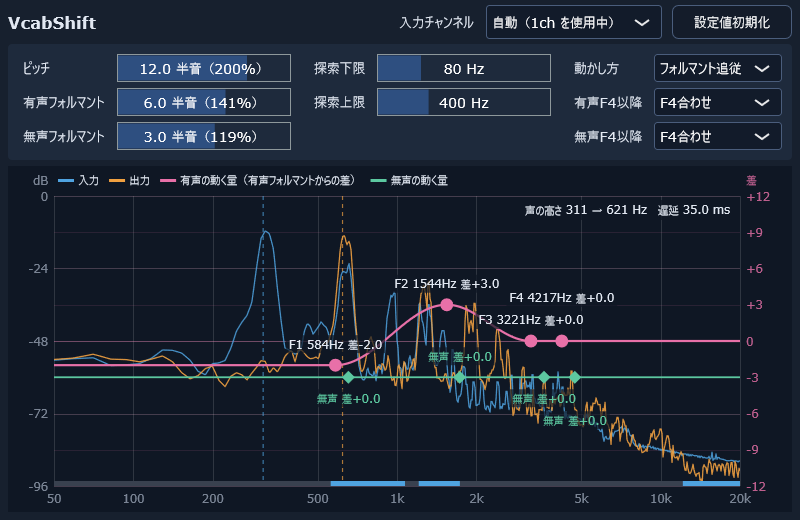
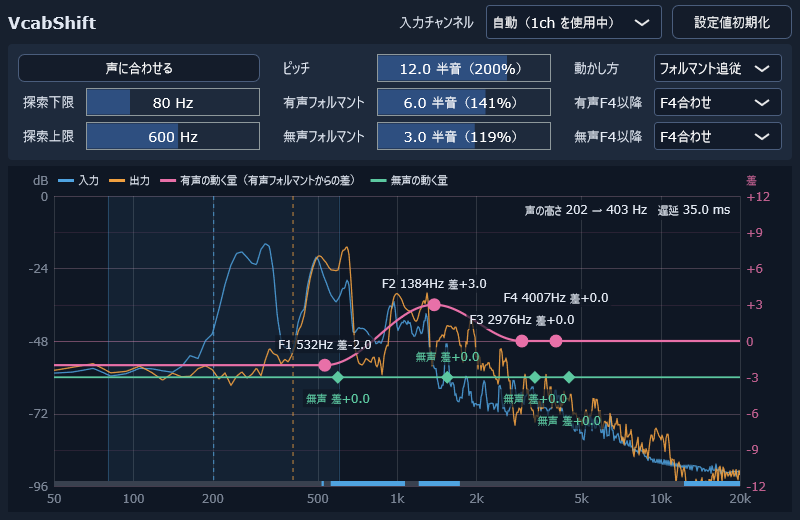
1.1.2

diff --git a/Source/Plugin/PluginEditor.cpp b/Source/Plugin/PluginEditor.cpp
@@ -12,6 +12,16 @@ constexpr int kInputComboWidth = 176; // VcabDenoise の入力チャンネルの
 constexpr int kComboExtra = 46;       // 選択欄の、文字の幅に足す分（左右の余白と、右の矢印）
 constexpr int kLabelInset = 5;        // Label の文字の左の余白（JUCE の標準）
 constexpr int kLabelGap = 12;         // 名前と部品の隙間
+constexpr int kTimerHz = 30;          // 画面の更新（「声に合わせる」は、この回数ごとに声の高さを 1 つ集める）
+
+// 「声に合わせる」
+constexpr double kFitSettleMs = 300.0;     // 探索下限を下げた直後は、処理の作り直しを待って集めない
+constexpr double kFitTimeoutMs = 15000.0;  // この時間で声が足りなければやめる
+constexpr double kFitMessageMs = 3000.0;   // 結果をボタンに出しておく時間
+constexpr int kFitNeeded = 3 * kTimerHz;   // 有声の値を 3 秒分集めたら終わる
+constexpr int kFitMinimum = 1 * kTimerHz;  // 時間切れのとき、これだけあれば使う
+constexpr float kFitLowPct = 0.05f;        // 測った声の低い側（5% 点）から
+constexpr float kFitMargin = 5.0f;         // この半音だけ下を探索下限にする
 
 // 画面に出すパラメータ（F1〜F4 の差と位置は、グラフの点で操作する）
 const vcab::P kRows[] = { vcab::P::pitch, vcab::P::formant, vcab::P::unvoicedFormant, vcab::P::warpMode, vcab::P::aboveF4, vcab::P::unvoicedAboveF4,
@@ -90,6 +100,8 @@ VcabShiftEditor::VcabShiftEditor (VcabShiftProcessor& p)
         {
             if (safe == nullptr || result != 1)
                 return;
+            if (safe->measuring)
+                safe->finishMeasure (false);
             for (const auto& info : vcab::paramTable())
             {
                 if (info.id == vcab::P::inputChannel)
@@ -113,17 +125,102 @@ VcabShiftEditor::VcabShiftEditor (VcabShiftProcessor& p)
     };
     if (proc.openAudioSettings)
         addAndMakeVisible (audioSettingsButton);
+    fitButton.setButtonText (utf8 ("声に合わせる"));
+    fitButton.setTooltip (utf8 ("押してから数秒、ふだんの声でしゃべると、探索下限をその声の低さに合わせます"
+                                "（測った声の低い側から 5 半音下）。声が高い人ほど下限が上がり、遅延が減ります。探索上限は変えません。\n"
+                                "測っている間は探索下限を 40Hz に下げるので、押したときと終わったときに音が一瞬途切れ、遅延も一時的に増えます。\n"
+                                "測っている間にもう一度押すと、取りやめて元の値に戻します。"));
+    fitButton.onClick = [this]
+    {
+        if (measuring)
+            finishMeasure (false);
+        else
+            startMeasure();
+    };
+    addAndMakeVisible (fitButton);
     addAndMakeVisible (spectrum);
 
     setSize (kWidth, kHeight);
     timerCallback();
-    startTimerHz (10);
+    startTimerHz (kTimerHz);
 }
 
 VcabShiftEditor::~VcabShiftEditor()
 {
     stopTimer();
+    if (measuring)
+        finishMeasure (false); // 画面を閉じたら、測る前の範囲に戻す
     setLookAndFeel (nullptr);
+}
+
+void VcabShiftEditor::setParamValue (vcab::P id, float v)
+{
+    auto* p = proc.param (id);
+    p->beginChangeGesture();
+    p->setValueNotifyingHost (p->convertTo0to1 (v));
+    p->endChangeGesture();
+}
+
+void VcabShiftEditor::startMeasure()
+{
+    savedMin = proc.value (vcab::P::pitchMin);
+    setParamValue (vcab::P::pitchMin, vcab::paramInfo (vcab::P::pitchMin).minValue);
+    f0Samples.clear();
+    measuring = true;
+    measureStart = juce::Time::getMillisecondCounterHiRes();
+    messageUntil = 0.0;
+}
+
+void VcabShiftEditor::finishMeasure (bool apply)
+{
+    measuring = false;
+    const int n = static_cast<int> (f0Samples.size());
+    if (apply && n >= kFitMinimum)
+    {
+        std::sort (f0Samples.begin(), f0Samples.end());
+        auto at = [&] (float q) { return f0Samples[static_cast<size_t> (juce::jlimit (0, n - 1, juce::roundToInt (q * static_cast<float> (n - 1))))]; };
+        const auto& minInfo = vcab::paramInfo (vcab::P::pitchMin);
+        const float lo = juce::jlimit (minInfo.minValue, minInfo.maxValue, std::round (at (kFitLowPct) * std::exp2 (-kFitMargin / 12.0f)));
+        setParamValue (vcab::P::pitchMin, lo);
+        fitButton.setButtonText (utf8 ("探索下限を ") + juce::String (juce::roundToInt (lo)) + utf8 (" Hz にしました"));
+    }
+    else
+    {
+        setParamValue (vcab::P::pitchMin, savedMin);
+        fitButton.setButtonText (apply ? utf8 ("声を拾えませんでした") : utf8 ("取りやめました"));
+    }
+    messageUntil = juce::Time::getMillisecondCounterHiRes() + kFitMessageMs;
+}
+
+void VcabShiftEditor::updateMeasure()
+{
+    const double now = juce::Time::getMillisecondCounterHiRes();
+    if (! measuring)
+    {
+        // 結果の文字を出し終えたら、ボタンの名前に戻す
+        if (messageUntil > 0.0 && now >= messageUntil)
+        {
+            messageUntil = 0.0;
+            fitButton.setButtonText (utf8 ("声に合わせる"));
+        }
+        return;
+    }
+
+    // 音の処理が進んでいるとき（フレームが増えたとき）だけ集める（止まっていると、最後の値が残るため）
+    const double elapsed = now - measureStart;
+    const auto& st = proc.status();
+    const int64_t frames = st.voicingCount.load();
+    const float f0 = st.f0.load();
+    if (elapsed >= kFitSettleMs && frames != lastFrameCount && f0 > 0.0f)
+        f0Samples.push_back (f0);
+    lastFrameCount = frames;
+
+    const int n = static_cast<int> (f0Samples.size());
+    if (n >= kFitNeeded || elapsed >= kFitTimeoutMs)
+        finishMeasure (true);
+    else
+        fitButton.setButtonText (utf8 ("しゃべってください ") + juce::String (static_cast<float> (n) / kTimerHz, 1)
+                                 + " / " + juce::String (kFitNeeded / kTimerHz) + utf8 (" 秒"));
 }
 
 VcabShiftEditor::Row* VcabShiftEditor::row (vcab::P id)
@@ -176,7 +273,7 @@ void VcabShiftEditor::resized()
         input->label.setBounds (h.removeFromRight (labelWidth ({ vcab::P::inputChannel })));
     }
 
-    // 操作の帯（3 行 3 列）: ピッチ・有声フォルマント・無声フォルマント ｜ 探索下限・探索上限 ｜ 動かし方・有声F4以降・無声F4以降
+    // 操作の帯（3 行 3 列）: 声に合わせる・探索下限・探索上限 ｜ ピッチ・有声フォルマント・無声フォルマント ｜ 動かし方・有声F4以降・無声F4以降
     // 右の列の選択欄は、中の文字が切れない幅（2 つのうち広いほう）にそろえ、残りを左の 2 列で分ける（バーの長さは同じ）
     stripArea = r.removeFromTop (kStripRow * 3 + 14);
     {
@@ -188,8 +285,8 @@ void VcabShiftEditor::resized()
                 w = std::max (w, textWidth (utf8 (c)));
             return w + kComboExtra;
         };
-        const int label1 = labelWidth ({ vcab::P::pitch, vcab::P::formant, vcab::P::unvoicedFormant });
-        const int label2 = labelWidth ({ vcab::P::pitchMin, vcab::P::pitchMax });
+        const int label1 = labelWidth ({ vcab::P::pitchMin, vcab::P::pitchMax });
+        const int label2 = labelWidth ({ vcab::P::pitch, vcab::P::formant, vcab::P::unvoicedFormant });
         const int label3 = labelWidth ({ vcab::P::warpMode, vcab::P::aboveF4, vcab::P::unvoicedAboveF4 });
         const int combo3 = std::max ({ comboWidth (vcab::P::warpMode), comboWidth (vcab::P::aboveF4), comboWidth (vcab::P::unvoicedAboveF4) });
         const int gap = 18;
@@ -211,11 +308,12 @@ void VcabShiftEditor::resized()
             else
                 rw->combo->setBounds (line);
         };
-        place (vcab::P::pitch, col1.removeFromTop (kStripRow), label1, bar);
-        place (vcab::P::formant, col1.removeFromTop (kStripRow), label1, bar);
-        place (vcab::P::unvoicedFormant, col1.removeFromTop (kStripRow), label1, bar);
-        place (vcab::P::pitchMin, col2.removeFromTop (kStripRow), label2, bar);
-        place (vcab::P::pitchMax, col2.removeFromTop (kStripRow), label2, bar);
+        fitButton.setBounds (col1.removeFromTop (kStripRow).reduced (0, 3));
+        place (vcab::P::pitchMin, col1.removeFromTop (kStripRow), label1, bar);
+        place (vcab::P::pitchMax, col1.removeFromTop (kStripRow), label1, bar);
+        place (vcab::P::pitch, col2.removeFromTop (kStripRow), label2, bar);
+        place (vcab::P::formant, col2.removeFromTop (kStripRow), label2, bar);
+        place (vcab::P::unvoicedFormant, col2.removeFromTop (kStripRow), label2, bar);
         place (vcab::P::warpMode, col3.removeFromTop (kStripRow), label3, combo3);
         place (vcab::P::aboveF4, col3.removeFromTop (kStripRow), label3, combo3);
         place (vcab::P::unvoicedAboveF4, col3.removeFromTop (kStripRow), label3, combo3);
@@ -228,6 +326,8 @@ void VcabShiftEditor::resized()
 
 void VcabShiftEditor::timerCallback()
 {
+    updateMeasure();
+
     // 一律のときは有声F4以降と無声F4以降を使わないので、灰色にする
     for (auto id : { vcab::P::aboveF4, vcab::P::unvoicedAboveF4 })
         if (auto* r = row (id))

diff --git a/Source/Plugin/SpectrumView.cpp b/Source/Plugin/SpectrumView.cpp
@@ -41,6 +41,7 @@ SpectrumView::SpectrumView (VcabShiftProcessor& p) : proc (p)
                       "F1〜F4 の丸を上下にドラッグ（左右は声に合わせて動きます）。動かし方が「帯域固定」のときは、上下左右にドラッグ。\n"
                       "ひし形は上下だけ（位置は丸と同じで、重ならないよう少し右に描いています）。\n"
                       "ホイールで 0.5 半音ずつ。ダブルクリックで 0 に戻します。\n"
+                      "薄い青の範囲: 声の高さを探す範囲（探索下限〜上限）。\n"
                       "下端の帯: 直近 3 秒の有声（青）と無声（灰）。右端が今で、左へ流れます（周波数の目盛りとは関係ありません）。"));
     updateWarp();
     startTimerHz (30);
@@ -255,6 +256,16 @@ void SpectrumView::paint (juce::Graphics& g)
 
     g.saveState();
     g.reduceClipRegion (a.toNearestInt());
+
+    // 声の高さを探す範囲（探索下限〜上限。上限は下限の 1.5 倍より狭くしない、処理と同じ値）を薄く塗る
+    {
+        const float x0 = xForHz (settings.pitchMin), x1 = xForHz (settings.pitchMax);
+        g.setColour (kInputColour.withAlpha (0.08f));
+        g.fillRect (juce::Rectangle<float> (x0, a.getY(), x1 - x0, a.getHeight()));
+        g.setColour (kInputColour.withAlpha (0.3f));
+        g.drawVerticalLine (juce::roundToInt (x0), a.getY(), a.getBottom());
+        g.drawVerticalLine (juce::roundToInt (x1), a.getY(), a.getBottom());
+    }
 
     // スペクトル
     const double fs = proc.sampleRate() > 0.0 ? proc.sampleRate() : 48000.0;

diff --git a/Source/Core/Params.cpp b/Source/Core/Params.cpp
@@ -67,8 +67,8 @@ std::vector<ParamInfo> makeTable()
           "地声合わせ: 動かさない。" },
         { P::pitchMin, "pitch_min", "探索下限", T::real, 40.0f, 200.0f, 80.0f, 1.0f, 0.0f, "Hz", {},
           "声の高さを探す範囲の下限。遅延はこの値で決まります（周期の 2 倍。80Hz で 25ms）。声の低さに合わせて、なるべく高くすると遅延が減ります。" },
-        { P::pitchMax, "pitch_max", "探索上限", T::real, 150.0f, 1000.0f, 400.0f, 1.0f, 0.0f, "Hz", {},
-          "声の高さを探す範囲の上限。遅延には関係しません。" },
+        { P::pitchMax, "pitch_max", "探索上限", T::real, 150.0f, 1000.0f, 600.0f, 1.0f, 0.0f, "Hz", {},
+          "声の高さを探す範囲の上限。遅延には関係しません。笑い声や叫び声で高くなる分まで入るよう、広めにしておくのがおすすめです。" },
         { P::inputChannel, "input_channel", "入力チャンネル", T::choice, 0.0f, 3.0f, 0.0f, 1.0f, 0.0f, "",
           { "自動", "1ch", "2ch", "平均" },
           "マイクの入力チャンネル。自動は、1ch と 2ch の大きいほうを使います（もう片方が 2 秒続けて 6dB 以上大きいと切り替え）。" },

diff --git a/Source/Plugin/PluginEditor.h b/Source/Plugin/PluginEditor.h
@@ -39,6 +39,20 @@ private:
     juce::TextButton resetButton, audioSettingsButton;
     juce::Rectangle<int> stripArea; // 操作の帯（paint で下地を描く）
 
+    // 「声に合わせる」: 探索下限を一時的に一番下にして声の高さを集め、低い側に余裕を足して探索下限にする（上限は変えない）
+    juce::TextButton fitButton;
+    bool measuring = false;
+    double measureStart = 0.0;     // 測り始めた時刻（ms）
+    double messageUntil = 0.0;     // ボタンに結果の文字を出しておく時刻（ms）
+    float savedMin = 0.0f; // 測る前の探索下限（取りやめたときに戻す）
+    std::vector<float> f0Samples;
+    int64_t lastFrameCount = -1;
+
+    void startMeasure();
+    void finishMeasure (bool apply);
+    void updateMeasure(); // タイマーごと: 声の高さを集め、足りたら（または時間切れで）終える
+    void setParamValue (vcab::P id, float v);
+
     void timerCallback() override;
     Row* row (vcab::P id);
 };

diff --git a/Source/Core/Params.h b/Source/Core/Params.h
@@ -74,7 +74,7 @@ struct Settings
     std::array<float, 4> anchor { 500.0f, 1400.0f, 2700.0f, 3500.0f }; // Hz
     AboveF4 aboveF4 = AboveF4::followUniform;
     float pitchMin = 80.0f; // Hz
-    float pitchMax = 400.0f;
+    float pitchMax = 600.0f;
     InputChannel inputChannel = InputChannel::automatic;
 
     static Settings fromValues (const std::array<float, kNumParams>& v);

diff --git a/README.md b/README.md
@@ -24,7 +24,7 @@
 | F1〜F4 の位置 | 動かし方が「フォルマント追従」（初期値）なら、声から追いかけた F1〜F4（LPC）。「帯域固定」なら、決まった位置（ドラッグで変えられる）。「一律」なら、点は使わず、どの周波数もつまみの分だけ動かす |
 | 有声F4以降 | F4合わせ（F4 と同じだけ。初期値）/ 設定合わせ（有声フォルマントのつまみの分だけ）/ 地声合わせ（動かさない）。「無声F4以降」も同じ |
 | ピッチ検出 | pYIN（2 フレーム、10ms 先まで見て高さと有声・無声を決める） |
-| 画面 | 入力と出力のスペクトルに、周波数ごとのフォルマントの動く量（つまみからの差）の線を重ねて出す。F1〜F4 の点を、可変の EQ のようにドラッグして動かす。グラフの下端に、直近 3 秒の有声・無声の判定を帯で出す |
+| 画面 | 入力と出力のスペクトルに、周波数ごとのフォルマントの動く量（つまみからの差）の線を重ねて出す。F1〜F4 の点を、可変の EQ のようにドラッグして動かす。声の高さを探す範囲（探索下限〜上限）を薄い青で塗る。グラフの下端に、直近 3 秒の有声・無声の判定を帯で出す |
 
 グラフの右の目盛りは、有声フォルマントのつまみからの差です（0 はつまみのとおり）。F1〜F4 の点は、つまみに対して、その位置をさらに何半音動かすかを表します。
 
@@ -40,7 +40,7 @@
 
 EXE 版の初回は、「オーディオ設定」ボタン（左上の「オプション」の中と同じ画面）から、入力と出力のデバイスを選んでください。マイクの入力チャンネル（1ch / 2ch）は、初期値の「自動」で、音が来ているほうを選びます。
 
-遅延を減らしたいときは、「探索下限」を自分の声の低さに合わせて上げてください（例: 100Hz で 30ms）。下限より低い声は、声の高さを正しく取れなくなります。
+遅延を減らしたいときは、「探索下限」を自分の声の低さに合わせて上げてください（例: 100Hz で 30ms）。下限より低い声は、声の高さを正しく取れなくなります。「声に合わせる」ボタンを押して数秒ふだんの声でしゃべると、測った声の低い側から 5 半音下を探索下限にします（押したときと終わったときに、音が一瞬途切れます）。「探索上限」は遅延に関係しないので、笑い声や叫び声まで入るよう、広め（初期値 600Hz）にしておくのがおすすめです。
 
 ## EXE 版を初めて起動するとき
 
